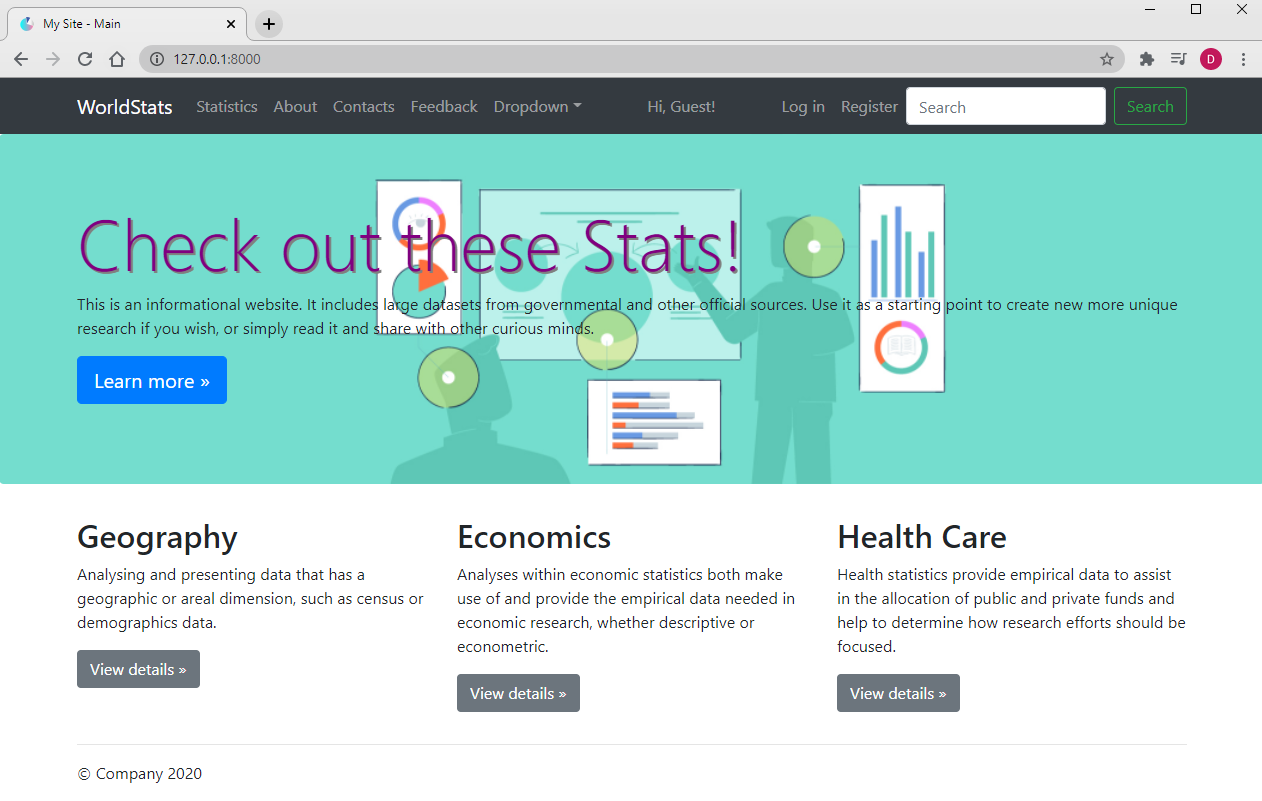
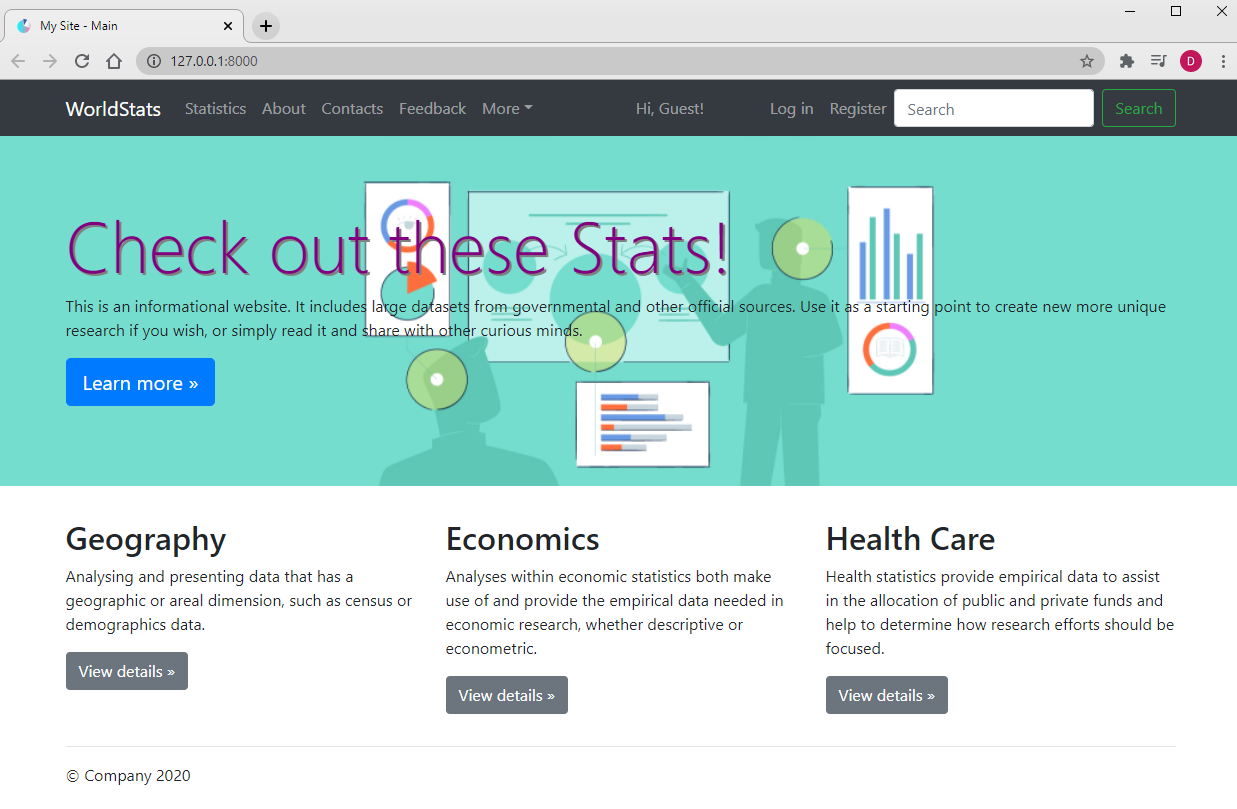
adding the rest

diff --git a/templates/layouts/nav.html b/templates/layouts/nav.html
@@ -30,7 +30,7 @@
             </li>
             -->
             <li class="nav-item dropdown">
-                <a class="nav-link dropdown-toggle" href="#" type="button" id="dropdown01" data-toggle="dropdown" aria-haspopup="true" aria-expanded="false">Dropdown</a>
+                <a class="nav-link dropdown-toggle" href="#" type="button" id="dropdown01" data-toggle="dropdown" aria-haspopup="true" aria-expanded="false">More</a>
                 <div class="dropdown-menu" aria-labelledby="dropdown01">
                     <a class="dropdown-item" href="#">Action</a>
                     <a class="dropdown-item" href="#">Another action</a>
